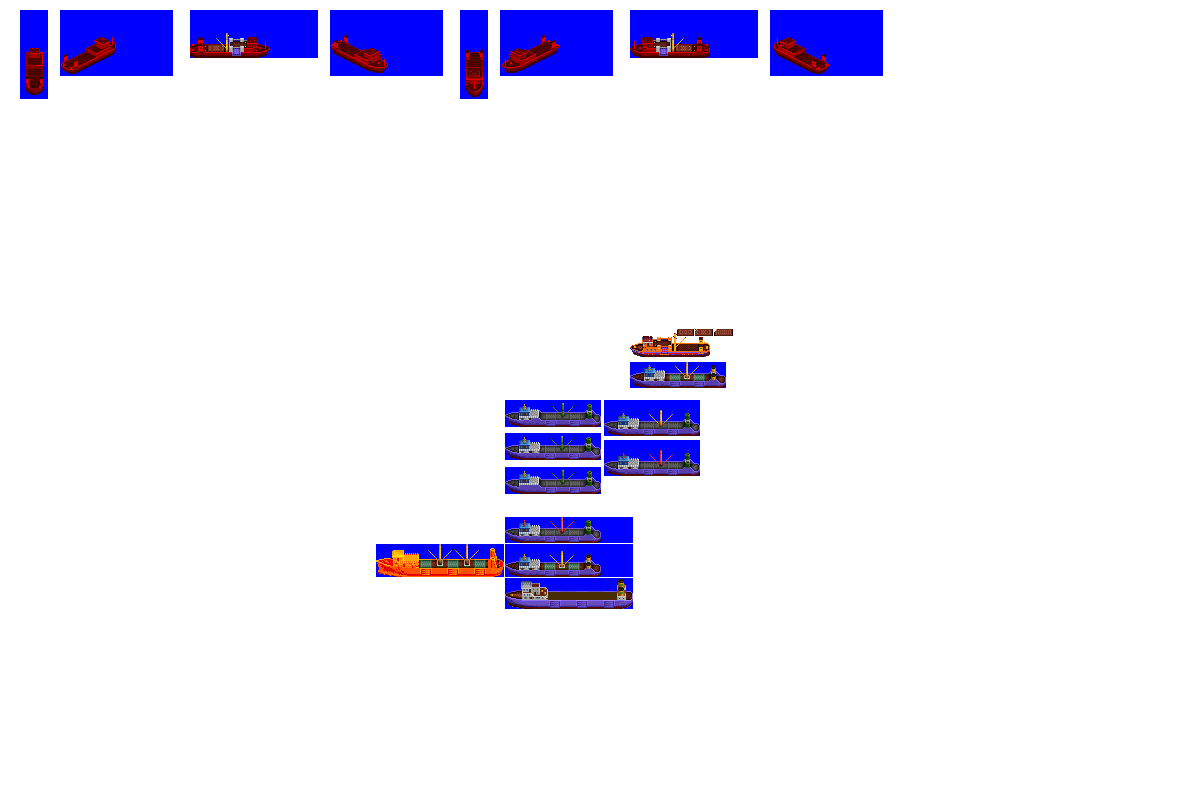
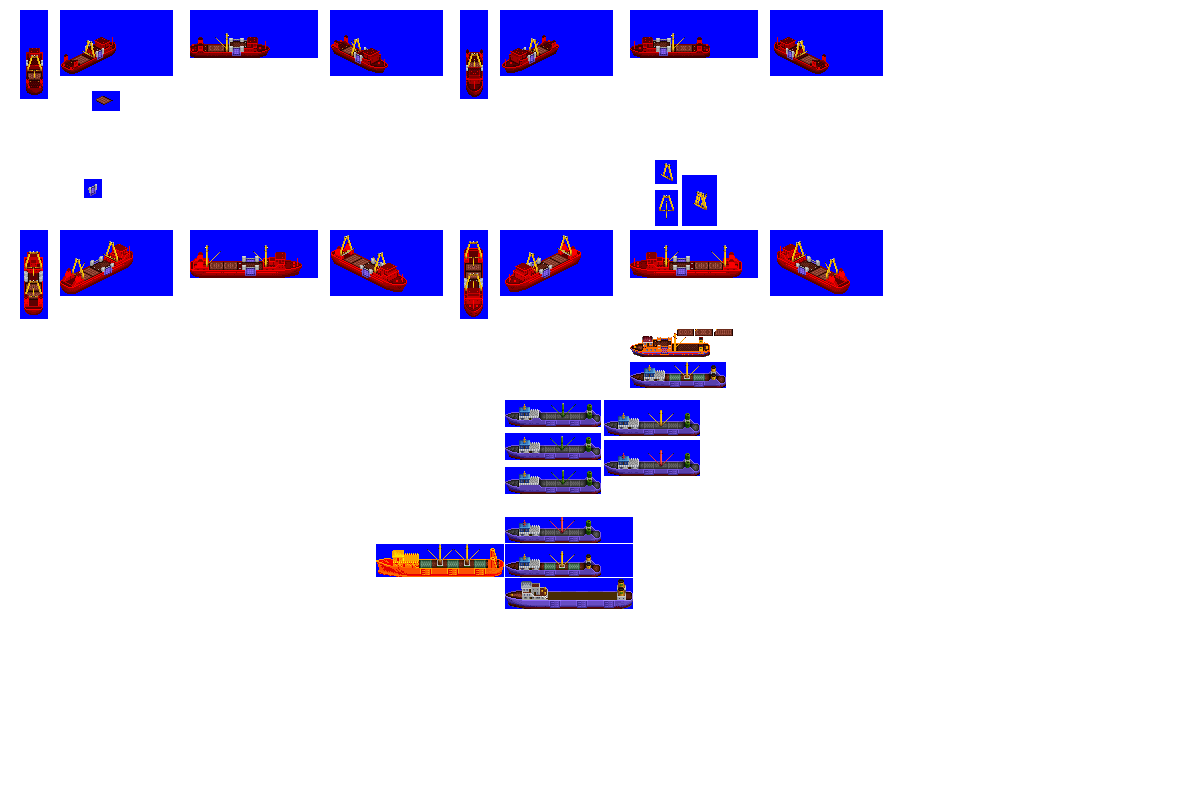
Change: gen 3C cargo liner complete

diff --git a/src/vehicles/cargo_liners.py b/src/vehicles/cargo_liners.py
@@ -29,7 +29,7 @@ def main():
         subtype="C",
         hull="ShipHouseForward",
         effect_type="EFFECT_SPRITE_DIESEL",
-        sprites_complete=False,
+        sprites_complete=True,
     )
 
     ship = CargoLiner(
